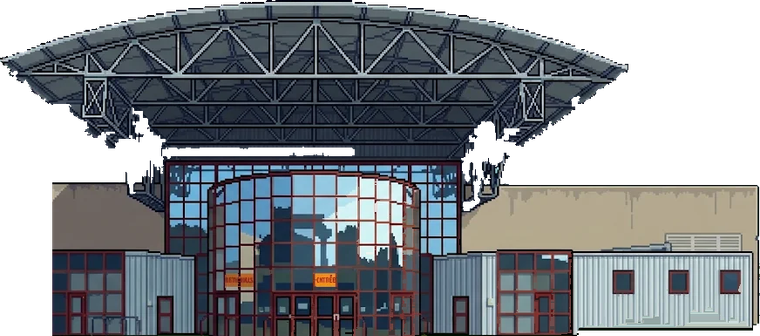
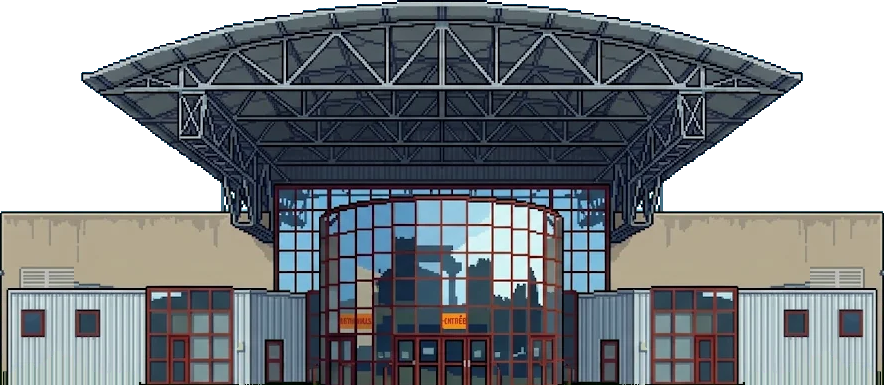
Mini-jeu « challenge » : halle symétrique et détourage corrigé
La halle est reconstruite en miroir à partir de sa moitié droite (la rotonde
centrale reste d'origine) et le détourage du ciel n'abîme plus le toit.

diff --git a/src/components/challenge/engine.ts b/src/components/challenge/engine.ts
@@ -65,12 +65,12 @@ const RAM_REACH_MIN = 26; // avancée d'un coup sans charge
 const RAM_REACH_MAX = 68; // avancée d'un coup à pleine charge
 const CHARGE_TIME = 1.0; // s pour une charge complète
 
-const HALL_W = 560;
-const HALL_H = (336 * HALL_W) / 760;
-const HALL_X = VIEW_W - HALL_W - 16;
+const HALL_W = 548;
+const HALL_H = (SPRITE_LAYOUT.hall.height * HALL_W) / SPRITE_LAYOUT.hall.width;
+const HALL_X = VIEW_W - HALL_W - 8;
 const HALL_Y = GROUND_Y + 8 - HALL_H;
-/** Façade : bord gauche des murs (le toit déborde davantage, mais plus haut). */
-const FACE_X = HALL_X + 40;
+/** Façade : bord gauche du mur de l'aile (le toit, plus haut, est en retrait). */
+const FACE_X = HALL_X + (SPRITE_LAYOUT.hall.faceX * HALL_W) / SPRITE_LAYOUT.hall.width;
 const HALL_HP = 100;
 
 const CUP_H = 240;
@@ -420,8 +420,8 @@ export class ChallengeEngine {
     // Gros morceaux de toit aux paliers de dégâts.
     if (this.hp <= this.nextChunkAt) {
       this.nextChunkAt -= 33;
-      const cx = rand(0.05, 0.5) * this.hallLayer.width;
-      const cy = rand(0.05, 0.3) * this.hallLayer.height;
+      const cx = rand(0.15, 0.5) * this.hallLayer.width;
+      const cy = rand(0.08, 0.3) * this.hallLayer.height;
       for (let i = 0; i < 6; i++) this.carve(cx + rand(-40, 40) * k, cy + rand(-20, 20) * k, rand(20, 34) * k);
       this.spawnDebris(HALL_X + cx / k, HALL_Y + cy / k, 26, 260, true);
     }

diff --git a/src/components/challenge/sprite-layout.ts b/src/components/challenge/sprite-layout.ts
@@ -21,6 +21,11 @@ export const SPRITE_LAYOUT = {
       }
     ]
   },
+  "hall": {
+    "width": 884,
+    "height": 385,
+    "faceX": 0
+  },
   "cup": {
     "centerX": 0.49850299401197606,
     "centerY": 0.4993215739484396
